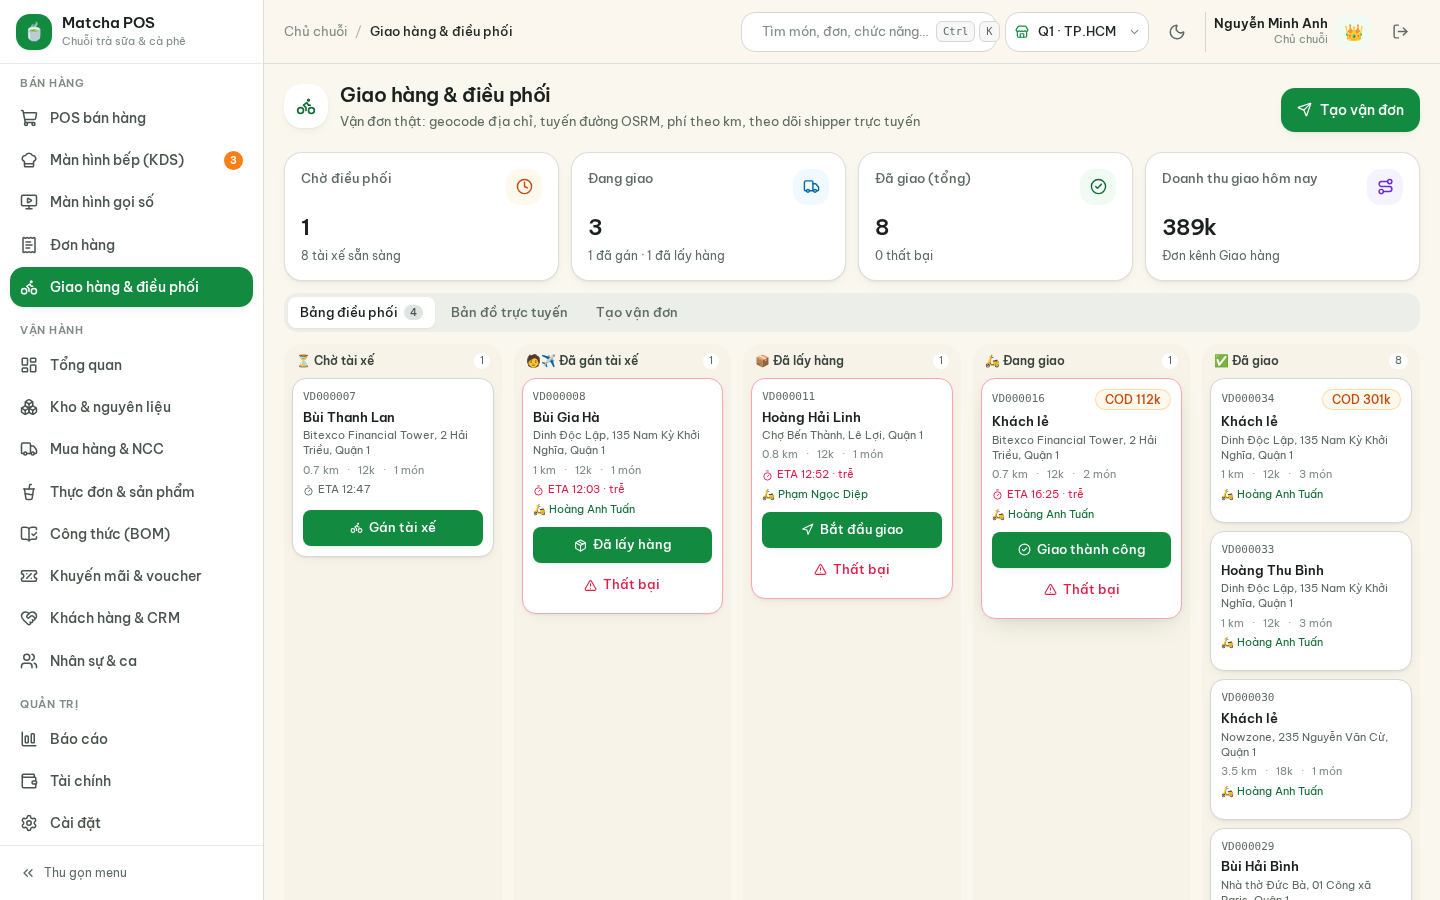
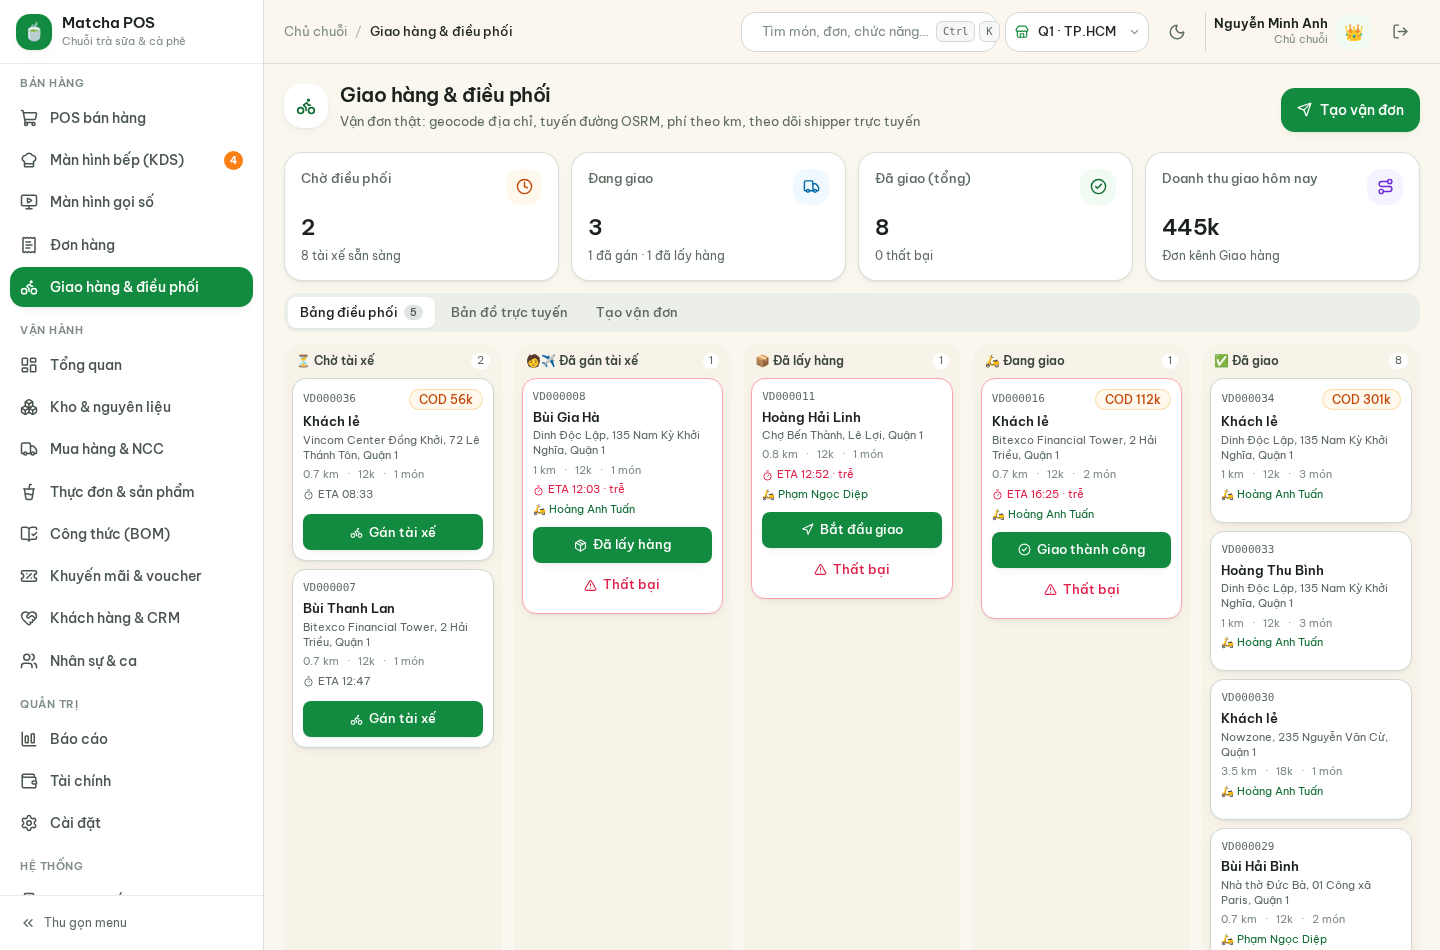
feat(pos): chọn địa chỉ giao trên bản đồ, tính phí OSRM, tự tạo vận đơn sau khi thanh toán

diff --git a/src/pages/POS.tsx b/src/pages/POS.tsx
@@ -2,18 +2,20 @@ import { useEffect, useMemo, useRef, useState } from 'react'
 import {
   BadgePercent, Ban, Bike, Check, Clock, Coffee, CreditCard, Gift, Grid2x2, Heart, Layers, Minus, MoreHorizontal,
   PauseCircle, Phone, Plus, Printer, QrCode, Receipt, Search, ShoppingBag, Sparkles, Star, Store, Trash2, User,
-  UserPlus, Utensils, Wallet, X, Zap,
+  UserPlus, Utensils, Wallet, X, Zap, MapPin, Route as RouteIcon,
 } from 'lucide-react'
 import {
   addShiftCash, checkout, closeShift, computePromotionDiscount, createCustomer, getBranches, getCategories, getCustomer,
   getOrderDetail, getProductSizes, getProductToppings, getProducts, getShiftOpen, getTables, getToppings, openShift,
-  searchCustomers, shiftSummary, validateVoucher, type Customer, type Product, type Topping,
+  searchCustomers, shiftSummary, validateVoucher, createDelivery, type Customer, type Product, type Topping,
 } from '../lib/api'
 import { useSql } from '../hooks/useDb'
 import { useApp } from '../store/app'
 import { buildVietQR, bankByBin } from '../lib/vietqr'
 import { getBankAccounts } from '../lib/api'
 import QRCode from 'qrcode'
+import { BRANCH_GEO, DEMO_PLACES, deliveryFeeFor, route as getRoute, searchAddress, type RouteResult } from '../lib/geo'
+import { MapView } from '../components/MapView'
 import { Badge, Button, Card, ConfirmDialog, EmptyState, Field, IconButton, Input, Modal, MoneyInput, Select, Textarea, Tooltip } from '../components/ui'
 import { CHANNEL_LABEL, cx, formatVND, normalize, nowVN, TIER_LABEL, formatDateTime } from '../lib/format'
 
@@ -59,6 +61,8 @@ export function POSPage() {
   const [customer, setCustomer] = useState<Customer | null>(null)
   const [deliveryAddress, setDeliveryAddress] = useState('')
   const [deliveryFee, setDeliveryFee] = useState(15000)
+  const [deliveryGeo, setDeliveryGeo] = useState<{ lat: number; lng: number; distanceKm: number; etaMin: number } | null>(null)
+  const [geoOpen, setGeoOpen] = useState(false)
   const [note, setNote] = useState('')
   const [voucherCode, setVoucherCode] = useState('')
   const [voucher, setVoucher] = useState<{ id: number; code: string; discount: number } | null>(null)
@@ -181,7 +185,15 @@ export function POSPage() {
     })
     setPaymentOpen(false)
     setReceipt({ orderId: res.orderId, code: res.code, queue: res.queueNo })
-    setLines([]); setCustomer(null); setTableId(null); setVoucher(null); setVoucherCode(''); setPointsUsed(0); setNote(''); setDeliveryAddress('')
+    if (channel === 'delivery' && deliveryAddress.trim()) {
+      createDelivery({
+        orderId: res.orderId, branchId, address: deliveryAddress.trim(),
+        lat: deliveryGeo?.lat ?? null, lng: deliveryGeo?.lng ?? null,
+        distanceKm: deliveryGeo?.distanceKm ?? 0, fee: deliveryFee, codAmount: res.total,
+        etaMinutes: deliveryGeo?.etaMin ?? null, userId: user.id,
+      })
+    }
+    setLines([]); setCustomer(null); setTableId(null); setVoucher(null); setVoucherCode(''); setPointsUsed(0); setNote(''); setDeliveryAddress(''); setDeliveryGeo(null)
     toast({
       title: `Thanh toán thành công ${formatVND(res.total)}`,
       description: `Đơn ${res.code}${res.queueNo ? ` · số gọi ${res.queueNo}` : ''} · đã trừ ${res.stockDeducted.length} nguyên liệu khỏi kho`,
@@ -305,7 +317,13 @@ export function POSPage() {
                   </Select>
                   <MoneyInput value={deliveryFee} onChange={setDeliveryFee} className="h-9 text-[12px]" />
                 </div>
-                <Input value={deliveryAddress} onChange={(e) => setDeliveryAddress(e.target.value)} placeholder="Địa chỉ giao hàng" className="h-9 text-[12px]" />
+                <div className="flex gap-1.5">
+                  <Input value={deliveryAddress} onChange={(e) => { setDeliveryAddress(e.target.value); setDeliveryGeo(null) }} placeholder="Địa chỉ giao hàng" className="h-9 text-[12px]" />
+                  <Button size="sm" variant={deliveryGeo ? 'secondary' : 'primary'} className="h-9 shrink-0" icon={<MapPin size={13} />} onClick={() => setGeoOpen(true)}>
+                    {deliveryGeo ? `${deliveryGeo.distanceKm}km` : 'Bản đồ'}
+                  </Button>
+                </div>
+                {deliveryGeo && <p className="text-[10.5px] text-matcha-700 dark:text-matcha-300">Tuyến OSRM {deliveryGeo.distanceKm} km · ~{deliveryGeo.etaMin} phút · phí {formatVND(deliveryFee)}</p>}
               </div>
             )}
           </div>
@@ -437,6 +455,19 @@ export function POSPage() {
           code={undefined}
           onClose={() => setPaymentOpen(false)}
           onConfirm={doCheckout}
+        />
+      )}
+
+      {geoOpen && (
+        <DeliveryGeoModal
+          branchId={branchId}
+          onClose={() => setGeoOpen(false)}
+          onPick={(p) => {
+            setDeliveryAddress(p.address)
+            setDeliveryFee(p.fee)
+            setDeliveryGeo({ lat: p.lat, lng: p.lng, distanceKm: p.distanceKm, etaMin: p.etaMin })
+            setGeoOpen(false)
+          }}
         />
       )}
 
@@ -610,6 +641,81 @@ function CustomizeModal({ product, initial, allToppings, onClose, editUid, onAdd
             <IconButton label="Tăng" onClick={() => setQty((n) => n + 1)}><Plus size={14} /></IconButton>
           </div>
         </div>
+      </div>
+    </Modal>
+  )
+}
+
+
+/* ------------------- Chọn địa chỉ giao + tính phí theo bản đồ ------------------- */
+function DeliveryGeoModal({ branchId, onClose, onPick }: {
+  branchId: number
+  onClose: () => void
+  onPick: (p: { address: string; lat: number; lng: number; distanceKm: number; etaMin: number; fee: number }) => void
+}) {
+  const origin = BRANCH_GEO[branchId] ?? BRANCH_GEO[1]
+  const [q, setQ] = useState('')
+  const [places, setPlaces] = useState<{ display: string; lat: number; lng: number; district?: string }[]>([])
+  const [picked, setPicked] = useState<{ display: string; lat: number; lng: number; district?: string } | null>(null)
+  const [route, setRoute] = useState<RouteResult | null>(null)
+  const [loading, setLoading] = useState(false)
+  const [manual, setManual] = useState('')
+
+  const search = async () => {
+    setLoading(true)
+    const res = await searchAddress(q)
+    setPlaces(res.length ? res : DEMO_PLACES.map((p) => ({ display: p.address, lat: p.lat, lng: p.lng, district: p.district })))
+    setLoading(false)
+  }
+  const choose = async (p: { display: string; lat: number; lng: number; district?: string }) => {
+    setPicked(p)
+    setRoute(await getRoute({ lat: origin.lat, lng: origin.lng }, { lat: p.lat, lng: p.lng }))
+  }
+
+  return (
+    <Modal open onClose={onClose} size="lg" title="Địa chỉ giao & phí ship" description="Tìm địa chỉ thật (OpenStreetMap) → tính tuyến đường OSRM → phí theo km"
+      footer={<>
+        <Button onClick={onClose}>Huỷ</Button>
+        <Button variant="primary" disabled={!picked || !route} icon={<Check size={15} />} onClick={() => {
+          if (!picked || !route) return
+          onPick({ address: picked.display, lat: picked.lat, lng: picked.lng, distanceKm: route.distanceKm, etaMin: route.durationMin, fee: deliveryFeeFor(route.distanceKm) })
+        }}>Dùng địa chỉ này</Button>
+      </>}>
+      <div className="space-y-2">
+        <div className="flex gap-2">
+          <Input autoFocus value={q} onChange={(e) => setQ(e.target.value)} onKeyDown={(e) => { if (e.key === 'Enter') search() }} placeholder="72 Lê Thánh Tôn, Quận 1…" />
+          <Button variant="primary" disabled={loading || q.length < 3} onClick={search}>{loading ? 'Đang tìm…' : 'Tìm'}</Button>
+        </div>
+        {places.length > 0 && (
+          <div className="max-h-[160px] space-y-1 overflow-y-auto rounded-xl border border-ink-200 p-1.5 dark:border-ink-700">
+            {places.map((p, i) => (
+              <button key={i} onClick={() => choose(p)} className={cx('w-full rounded-lg px-2 py-1.5 text-left text-[11.5px] hover:bg-ink-50 dark:hover:bg-ink-800', picked?.display === p.display && 'bg-matcha-50 dark:bg-matcha-900/20')}>
+                <p className="line-clamp-2 text-ink-700 dark:text-ink-200">{p.display}</p>
+                {p.district && <p className="text-[10px] text-ink-400">{p.district}</p>}
+              </button>
+            ))}
+          </div>
+        )}
+        <Input value={manual} onChange={(e) => setManual(e.target.value)} placeholder="Hoặc nhập địa chỉ tay (không tính phí tự động)" className="text-[12px]" />
+        {manual.length > 5 && !picked && (
+          <Button size="sm" variant="secondary" onClick={() => onPick({ address: manual, lat: 0, lng: 0, distanceKm: 0, etaMin: 0, fee: 0 })}>Dùng địa chỉ nhập tay</Button>
+        )}
+        <MapView
+          markers={[
+            { id: 'o', lat: origin.lat, lng: origin.lng, kind: 'branch', label: 'Quán' },
+            ...(picked ? [{ id: 'c', lat: picked.lat, lng: picked.lng, kind: 'customer' as const, label: 'Điểm giao' }] : []),
+          ]}
+          route={route?.geometry}
+          height={240}
+        />
+        {route && (
+          <div className="flex flex-wrap items-center gap-3 rounded-xl bg-matcha-50 p-2.5 text-[12px] dark:bg-matcha-900/20">
+            <span className="flex items-center gap-1"><RouteIcon size={13} /> {route.distanceKm} km</span>
+            <span>~{route.durationMin} phút</span>
+            <span className="font-semibold">Phí ship {formatVND(deliveryFeeFor(route.distanceKm))}</span>
+            <span className="text-[10.5px] text-ink-400">nguồn: {route.source === 'osrm' ? 'OSRM (định tuyến thật)' : 'ước lượng offline'}</span>
+          </div>
+        )}
       </div>
     </Modal>
   )
